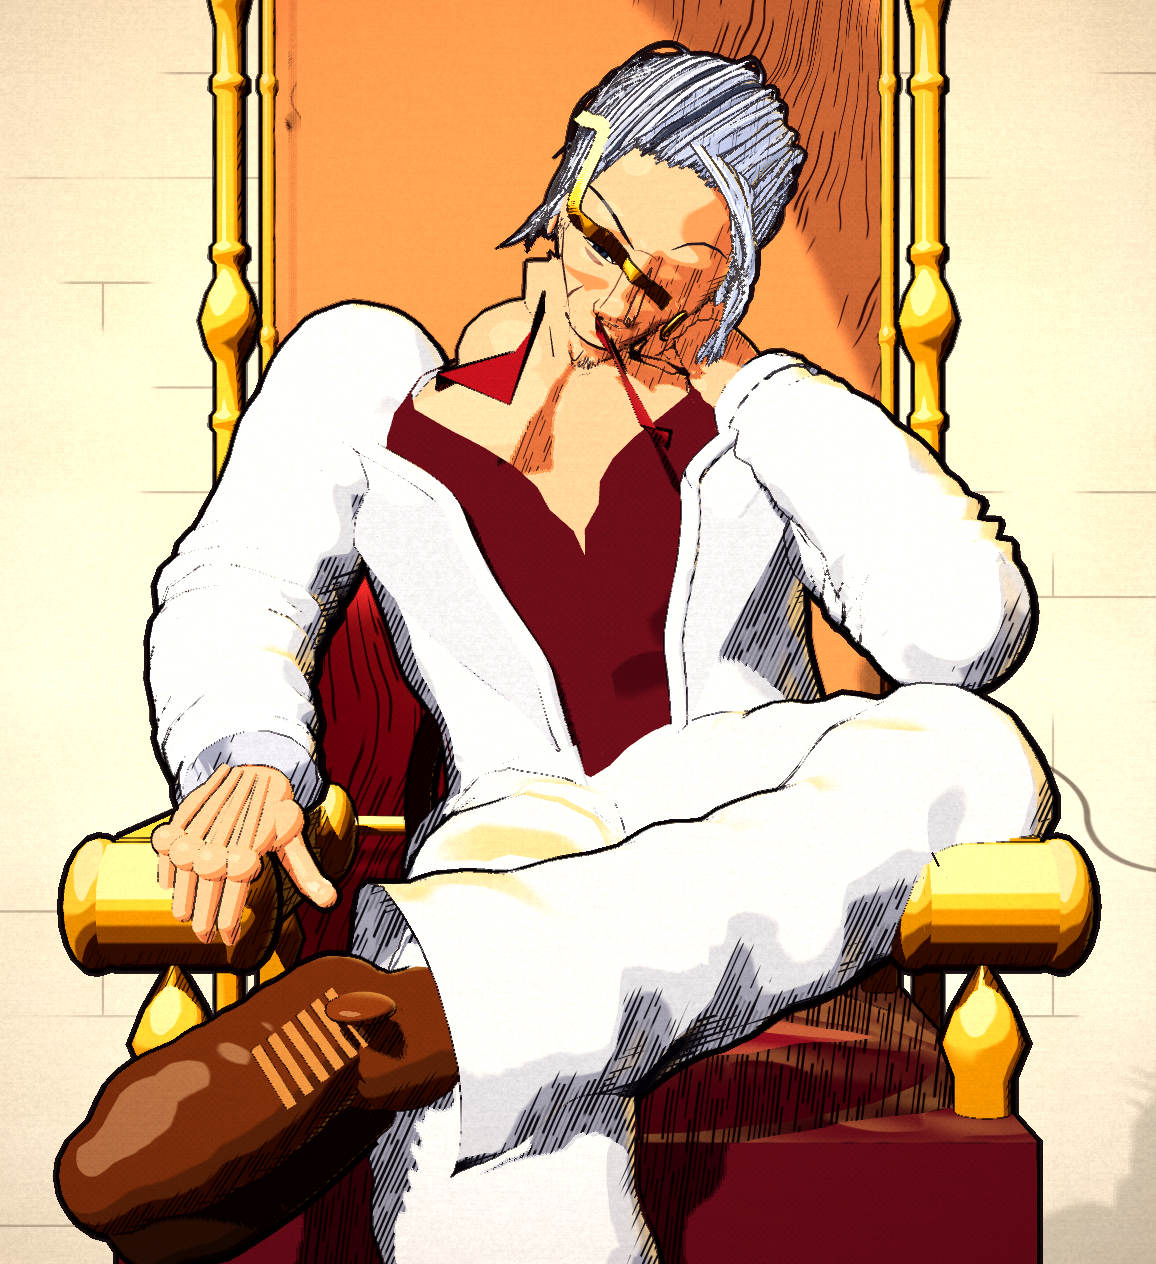
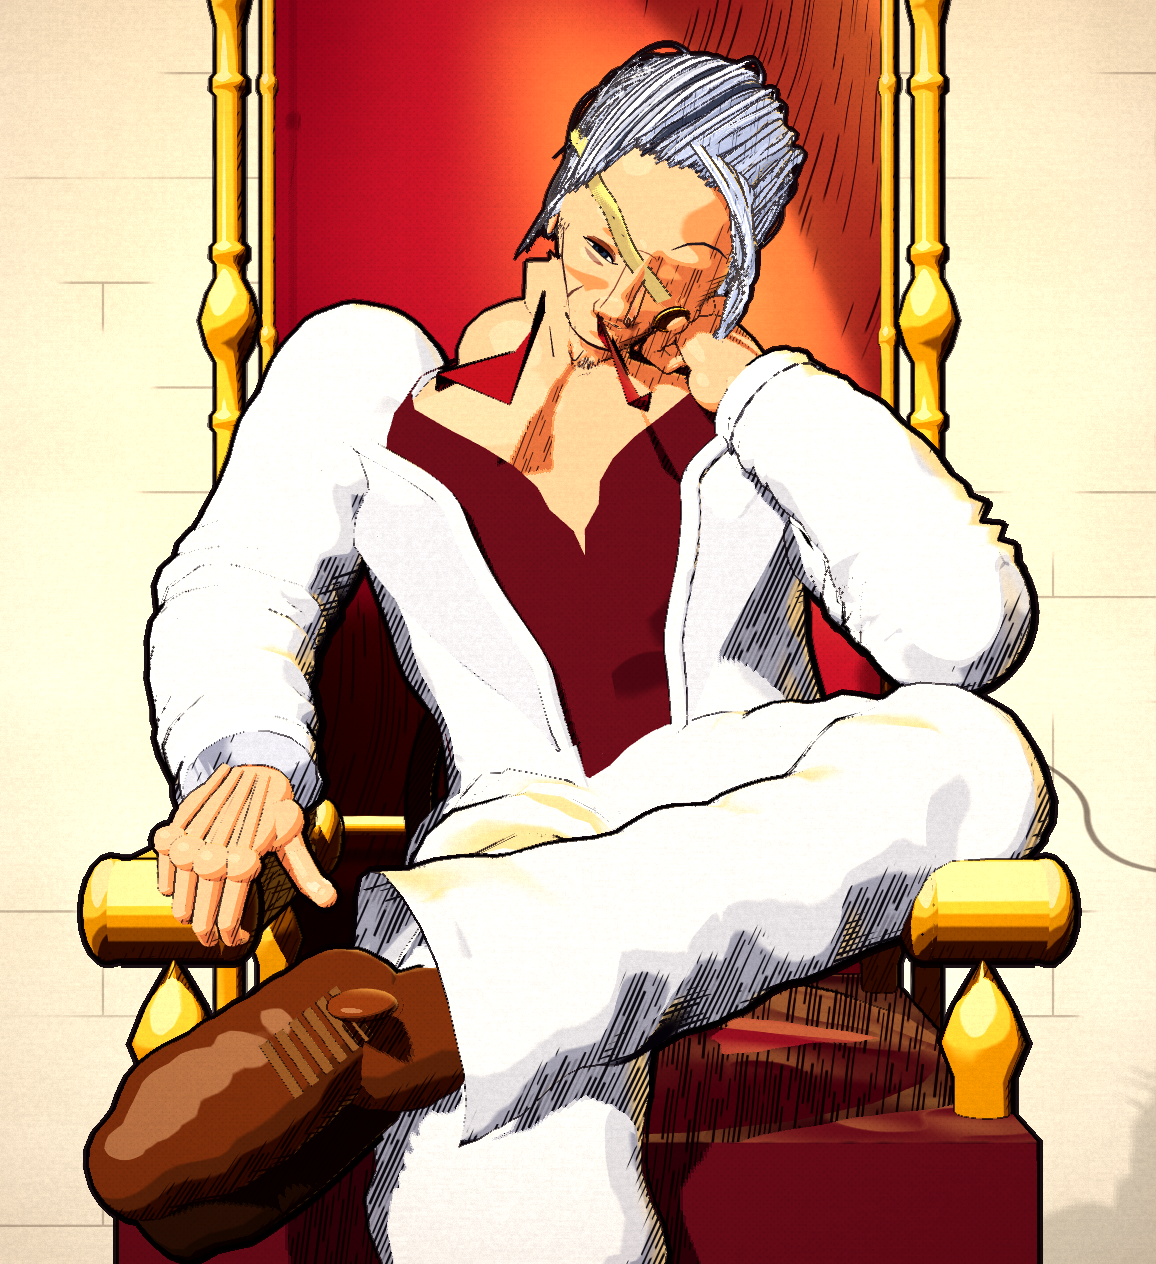
baku3d: round 2 body, boot, throne rebuild
Claude-Session: https://claude.ai/code/session_01JH6q5z1jEaKTaWuFe2UCrC

diff --git a/baku3d/src/body.js b/baku3d/src/body.js
@@ -215,7 +215,7 @@ export function buildBody(THREE, style) {
     return 1 + amp * (n * 1.6 + rg * 2.0 + drag * 0.9);
   };
   // leg A: thigh runs up-right to the raised knee (~x1040), shin drops down-left to the hem over the boot
-  const hipA = P(625, 845, -0.04), kneeA = P(945, 792, 0.22), hemA = P(402, 1038, 0.5);
+  const hipA = P(625, 845, -0.04), kneeA = P(945, 792, 0.22), hemA = P(405, 1015, 0.5);
   {
     const thigh = {
       pts: [hipA, P(790, 815, 0.12), kneeA], rings: 20, sides: 22, ref: V3(0, 1, 0),
@@ -223,15 +223,15 @@ export function buildBody(THREE, style) {
     };
     add(loft(thigh), trouserM());
     const shin = {
-      pts: [kneeA, P(840, 868, 0.3), P(660, 950, 0.4), P(520, 1000, 0.46), hemA], rings: 36, sides: 24, ref: V3(0, 1, 0),
-      rx: prof([[0, 0.088], [0.5, 0.078], [0.85, 0.09], [1, 0.108]]), ry: prof([[0, 0.088], [0.5, 0.074], [0.85, 0.088], [1, 0.1]]),
+      pts: [kneeA, P(840, 855, 0.3), P(660, 925, 0.4), P(520, 975, 0.46), hemA], rings: 36, sides: 24, ref: V3(0, 1, 0),
+      rx: prof([[0, 0.086], [0.5, 0.074], [0.85, 0.086], [1, 0.1]]), ry: prof([[0, 0.086], [0.5, 0.07], [0.85, 0.082], [1, 0.094]]),
       capStart: 3, noise: legNoise(0.12, 5),
     };
     add(loft(shin), trouserM());
   }
   // leg B: wide white leg falling from behind the crossed shin to the bottom centre, pooled at a pointed hem
   {
-    const hipB = P(560, 855, -0.04), kneeB = P(505, 1010, 0.4), ankleB = P(535, 1750, 0.55);
+    const hipB = P(560, 855, -0.04), kneeB = P(520, 985, 0.38), ankleB = P(535, 1750, 0.55);
     const thigh = {
       pts: [hipB, P(520, 930, 0.2), kneeB], rings: 14, sides: 22, ref: V3(1, 0, 0),
       rx: prof([[0, 0.11], [1, 0.1]]), ry: prof([[0, 0.11], [1, 0.1]]), capStart: 3, capEnd: 4, noise: legNoise(0.09, 9),
@@ -239,7 +239,7 @@ export function buildBody(THREE, style) {
     add(loft(thigh), trouserM());
     const shin = {
       pts: [kneeB, P(515, 1250, 0.46), P(525, 1500, 0.52), ankleB], rings: 26, sides: 24, ref: V3(1, 0, 0),
-      rx: prof([[0, 0.098], [0.4, 0.105], [1, 0.125]]), ry: prof([[0, 0.098], [0.4, 0.1], [1, 0.115]]), capStart: 3, noise: legNoise(0.1, 11),
+      rx: prof([[0, 0.105], [0.4, 0.115], [1, 0.14]]), ry: prof([[0, 0.1], [0.4, 0.105], [1, 0.12]]), capStart: 3, noise: legNoise(0.1, 11),
     };
     add(loft(shin), trouserM());
     ell(0.07, P(540, 1700, 0.62), [1, 0.6, 1.8], mat(0x1a1210, 'leather'));
@@ -249,7 +249,7 @@ export function buildBody(THREE, style) {
   {
     const leather = mat(0x5a2e14, 'leather');
     const leatherD = mat(0x1e0f08, 'leather');
-    const heel = P(338, 1022, 0.5), mid = P(246, 1092, 0.56), ball = P(165, 1140, 0.6), toe = P(112, 1178, 0.62);
+    const heel = P(345, 1015, 0.5), mid = P(255, 1085, 0.55), ball = P(185, 1130, 0.58), toe = P(142, 1165, 0.6);
     // shaft: slides out of the trouser hem
     add(loft({
       pts: [P(470, 1030, 0.46), P(380, 1040, 0.5), heel.clone().add(V3(0.0, -0.01, 0.0))], rings: 8, sides: 18, ref: V3(0, 1, 0),
@@ -275,7 +275,7 @@ export function buildBody(THREE, style) {
       const f = U.frameAt(footSpec, gc, t);
       // instep = the ring point facing the viewer/up
       const top = U.ringPoint(footSpec, gc, t, Math.PI / 2, 1.0, 0.003);
-      const bar = new THREE.Mesh(new THREE.CylinderGeometry(0.0045, 0.0045, 0.05, 6), mat(0xa88650, 'leather'));
+      const bar = new THREE.Mesh(new THREE.CylinderGeometry(0.004, 0.004, 0.046, 6), mat(0x6e5230, 'leather'));
       bar.position.copy(top);
       orient(bar, f.B, f.N);
       bar.rotateY(0.5);

diff --git a/baku3d/src/head.js b/baku3d/src/head.js
@@ -79,7 +79,7 @@ export function buildHead(THREE, style) {
     line([[-0.012, 0.004, 0.046], [-0.034, -0.002, 0.040], [-0.066, 0.004, 0.024]], 0.0024);
     line([[0.012, 0.004, 0.046], [0.034, -0.002, 0.040], [0.066, 0.004, 0.024]], 0.0024);
   }
-  neckGroup.rotation.set(0.12, 0, -0.05);
+  neckGroup.rotation.set(0.12, 0, -0.20);
   const HS = 1.15; neckGroup.scale.setScalar(HS);
 
   // ======================= HEAD (tilt group) =======================
@@ -87,7 +87,7 @@ export function buildHead(THREE, style) {
   tilt.position.set(0, PIVOT_Y * HS, 0); tilt.scale.setScalar(HS);
   tilt.rotation.order = 'YXZ';
   tilt.rotation.set(0.36, -0.02, -0.48);
-  tilt.position.x += 0.012;
+  tilt.position.x += 0.034; tilt.position.y -= 0.035;
   root.add(tilt);
   const face = new THREE.Group(); face.name = 'face';
   face.position.set(0, FACE_Y - PIVOT_Y, 0.004);
@@ -214,18 +214,18 @@ export function buildHead(THREE, style) {
   const gold = style.toon(0xe6b32a, { role: 'gold', side: THREE.DoubleSide });
   const goldLight = style.toon(0xf6d460, { role: 'gold' });
   const goldDark = style.toon(0xa8741a, { role: 'gold' });
-  const C = [0.042, -0.020], RING = 0.0150, RY = 0.74;
+  const C = [0.042, -0.020], RING = 0.0165, RY = 0.74;
   {
-    const goldStrap = style.toon(0xf3d97a, { role: 'gold', side: THREE.DoubleSide });
+    const goldStrap = style.toon(0xf7e48c, { role: 'eye', side: THREE.DoubleSide });
     const E = [C[0] - RING * 0.72, C[1] + RING * RY * 0.72];
     const ctrl = [];
-    const x0 = -0.058, ySl = -0.42;
+    const x0 = -0.058, ySl = -0.65;
     const sm = (a, b, x) => { const t = Math.min(1, Math.max(0, (x - a) / (b - a))); return t * t * (3 - 2 * t); };
     for (let i = 0; i <= 5; i++) {
       const x = E[0] + (x0 - E[0]) * i / 5, y = E[1] + (x - E[0]) * ySl;
       ctrl.push(field.P(x, y, 0.0040));
     }
-    for (const q of [[-0.078, 0.046, 0.046], [-0.091, 0.050, 0.022], [-0.095, 0.053, -0.012], [-0.091, 0.056, -0.050], [-0.072, 0.060, -0.088], [0, 0.062, -0.104], [0.072, 0.060, -0.088], [0.091, 0.056, -0.050], [0.095, 0.052, -0.010], [0.089, 0.046, 0.024]]) ctrl.push(new V3(...q));
+    for (const q of [[-0.081, 0.063, 0.030], [-0.090, 0.066, 0.004], [-0.092, 0.068, -0.030], [-0.085, 0.068, -0.065], [-0.065, 0.066, -0.095], [0, 0.066, -0.106], [0.065, 0.066, -0.095], [0.085, 0.068, -0.065], [0.092, 0.068, -0.030], [0.090, 0.064, 0.0]]) ctrl.push(new V3(...q));
     const curveS = new THREE.CatmullRomCurve3(ctrl, false, 'catmullrom', 0.5);
     const pts = curveS.getPoints(160);
     const cen = new V3(0, 0.05, -0.012), hw = 0.0068, th = 0.0022;

diff --git a/baku3d/src/bodyA_throne.js b/baku3d/src/bodyA_throne.js
@@ -73,17 +73,17 @@ export function buildThrone(THREE, style, util) {
   for (const s of [-1, 1]) {
     const x = s * 0.345;
     // stacked, grooved block running front-to-back
-    const bands = [[0.575, 0.1, 0.09, gold()], [0.597, 0.112, 0.07, goldDark()], [0.62, 0.1, 0.09, gold()], [0.642, 0.108, 0.07, goldDark()], [0.664, 0.098, 0.085, gold()]];
+    const bands = [[0.58, 0.088, 0.09, gold()], [0.6, 0.098, 0.07, goldDark()], [0.62, 0.088, 0.09, gold()], [0.64, 0.096, 0.07, goldDark()]];
     for (const [y, w, hh, m] of bands) {
       const b = M(new THREE.BoxGeometry(w, 0.02, 0.64), m, x, y, 0.0);
       b.scale.y = 1;
     }
     // carved scroll ends: horizontal cylinders across the front and back
     for (const z of [0.33, -0.33]) {
-      const c = M(new THREE.CylinderGeometry(0.052, 0.052, 0.118, 18), gold(), x, 0.62, z);
+      const c = M(new THREE.CylinderGeometry(0.042, 0.042, 0.1, 18), gold(), x, 0.615, z);
       c.rotation.z = Math.PI / 2;
-      M(new THREE.SphereGeometry(0.056, 14, 10), goldDark(), x + s * 0.062, 0.62, z).scale.set(0.5, 1, 1);
-      M(new THREE.SphereGeometry(0.056, 14, 10), goldDark(), x - s * 0.062, 0.62, z).scale.set(0.5, 1, 1);
+      M(new THREE.SphereGeometry(0.044, 14, 10), goldDark(), x + s * 0.052, 0.615, z).scale.set(0.5, 1, 1);
+      M(new THREE.SphereGeometry(0.044, 14, 10), goldDark(), x - s * 0.052, 0.615, z).scale.set(0.5, 1, 1);
     }
     // turned front/back support posts
     M(new THREE.LatheGeometry(postProfile(0.57, 0.024, [{ y: 0.3, R: 0.044 }], 0.15), 14), gold(), x, 0.0, 0.32);
